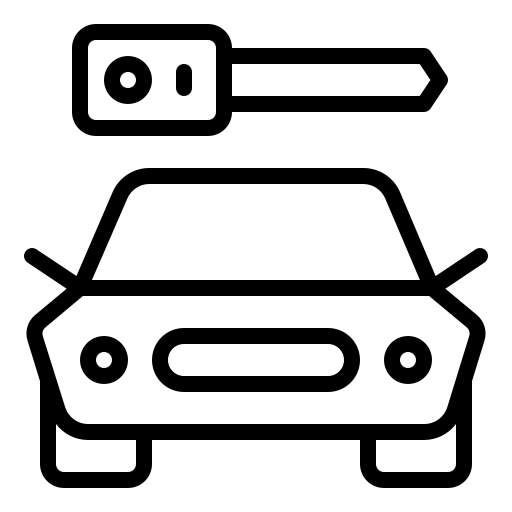
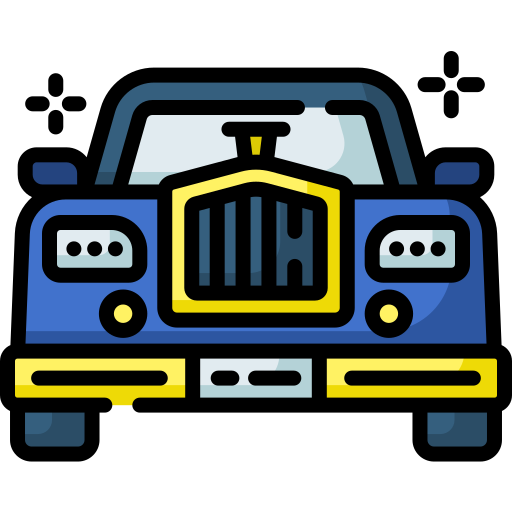
alterção de icones no index

diff --git a/hello-neigh-main/hello-neigh-main/index.html b/hello-neigh-main/hello-neigh-main/index.html
@@ -87,7 +87,7 @@
         <div class="row justify-content-center">
 
           <article class="card borda-cor-especial card-largura p-0 m-4 col-12 cols-xxl-4">
-            <img src="src/vivo.png" class="card-img-top car-posicao-imagem" alt="tigela com salada de abacate, vista superior">
+            <img src="src/pessoa.png" class="card-img-top car-posicao-imagem" alt="tigela com salada de abacate, vista superior">
             <div class="card-body rounded">
               <h5 class="card-title text-center fs-3">Registro de Morador</h5>
               <p class="card-text text-center text-wrap fs-5">Registre aqui um novo morador</p>
@@ -97,7 +97,7 @@
           </article>
       
           <article class="card borda-cor-especial card-largura p-0 m-4 col-12 cols-xxl-4">
-            <img src="src/reservado.png"  class="card-img-top car-posicao-imagem" alt="tigela de mingau com kiwi, vista superior">
+            <img src="src/amigos.png"  class="card-img-top car-posicao-imagem" alt="tigela de mingau com kiwi, vista superior">
             <div class="card-body">
               <h5 class="card-title text-center fs-3">Registro visitantes</h5>
               <p class="card-text text-center text-wrap fs-5">Registre visitantes aqui</p>
@@ -107,7 +107,7 @@
           </article>
           
           <article class="card borda-cor-especial p-0 m-4 card-largura col-12 cols-xxl-4">
-          <img src="src/reclamacao.png" class="card-img-top car-posicao-imagem" alt="prato de salada de pimentões com alguns ingredientes ao lado, vista superior">
+          <img src="src/carro.png" class="card-img-top car-posicao-imagem" alt="prato de salada de pimentões com alguns ingredientes ao lado, vista superior">
           <div class="card-body">
               <h5 class="card-title text-center fs-3">Registrar veiculos</h5>
               <p class="card-text text-center text-wrap fs-5">Registre veiculos aqui</p>
@@ -117,7 +117,7 @@
           </article>
 
           <article class="card borda-cor-especial p-0 m-4 card-largura col-12 cols-xxl-4">
-            <img src="src/carro.png" class="card-img-top car-posicao-imagem" alt="prato de salada de pimentões com alguns ingredientes ao lado, vista superior">
+            <img src="src/pacote.png" class="card-img-top car-posicao-imagem" alt="prato de salada de pimentões com alguns ingredientes ao lado, vista superior">
             <div class="card-body">
               <h5 class="card-title text-center fs-3">Registrar Encomendas</h5>
               <p class="card-text text-center text-wrap fs-5">Registre as encomendas recebidas</p>
@@ -127,7 +127,7 @@
           </article>
 
           <article class="card borda-cor-especial p-0 m-4 card-largura col-12 cols-xxl-4">
-            <img src="src/estacao-de-bicicletas.png" class="card-img-top car-posicao-imagem" alt="icone do Registrar encomendas">
+            <img src="src/bicicleta.png" class="card-img-top car-posicao-imagem" alt="icone do Registrar encomendas">
             <div class="card-body">
               <h5 class="card-title text-center fs-3">Registro de Bikes</h5>
               <p class="card-text text-center text-wrap fs-5">Cadastre Bikes</p>
@@ -136,7 +136,7 @@
           </article>
 
           <article class="card borda-cor-especial p-0 m-4 card-largura col-12 cols-xxl-4">
-            <img src="src/ordem-de-compra.png" class="card-img-top car-posicao-imagem" alt="icone do Registrar encomendas">
+            <img src="src/cachorro.png" class="card-img-top car-posicao-imagem" alt="icone do Registrar encomendas">
             <div class="card-body">
               <h5 class="card-title text-center fs-3">Registrar Pet</h5>
               <p class="card-text text-center text-wrap fs-5">Registre animais de estimação</p>
@@ -145,7 +145,7 @@
           </article>
 
           <article class="card borda-cor-especial p-0 m-4 card-largura col-12 cols-xxl-4">
-            <img src="src/svg.png" class="card-img-top car-posicao-imagem" alt="icone do Registrar encomendas">
+            <img src="src/relatorio.png" class="card-img-top car-posicao-imagem" alt="icone do Registrar encomendas">
             <div class="card-body">
               <h5 class="card-title text-center fs-3">Relatórios e Dashboards</h5>
               <p class="card-text text-center text-wrap fs-5">Gere relatórios e visualize gráficos</p>
